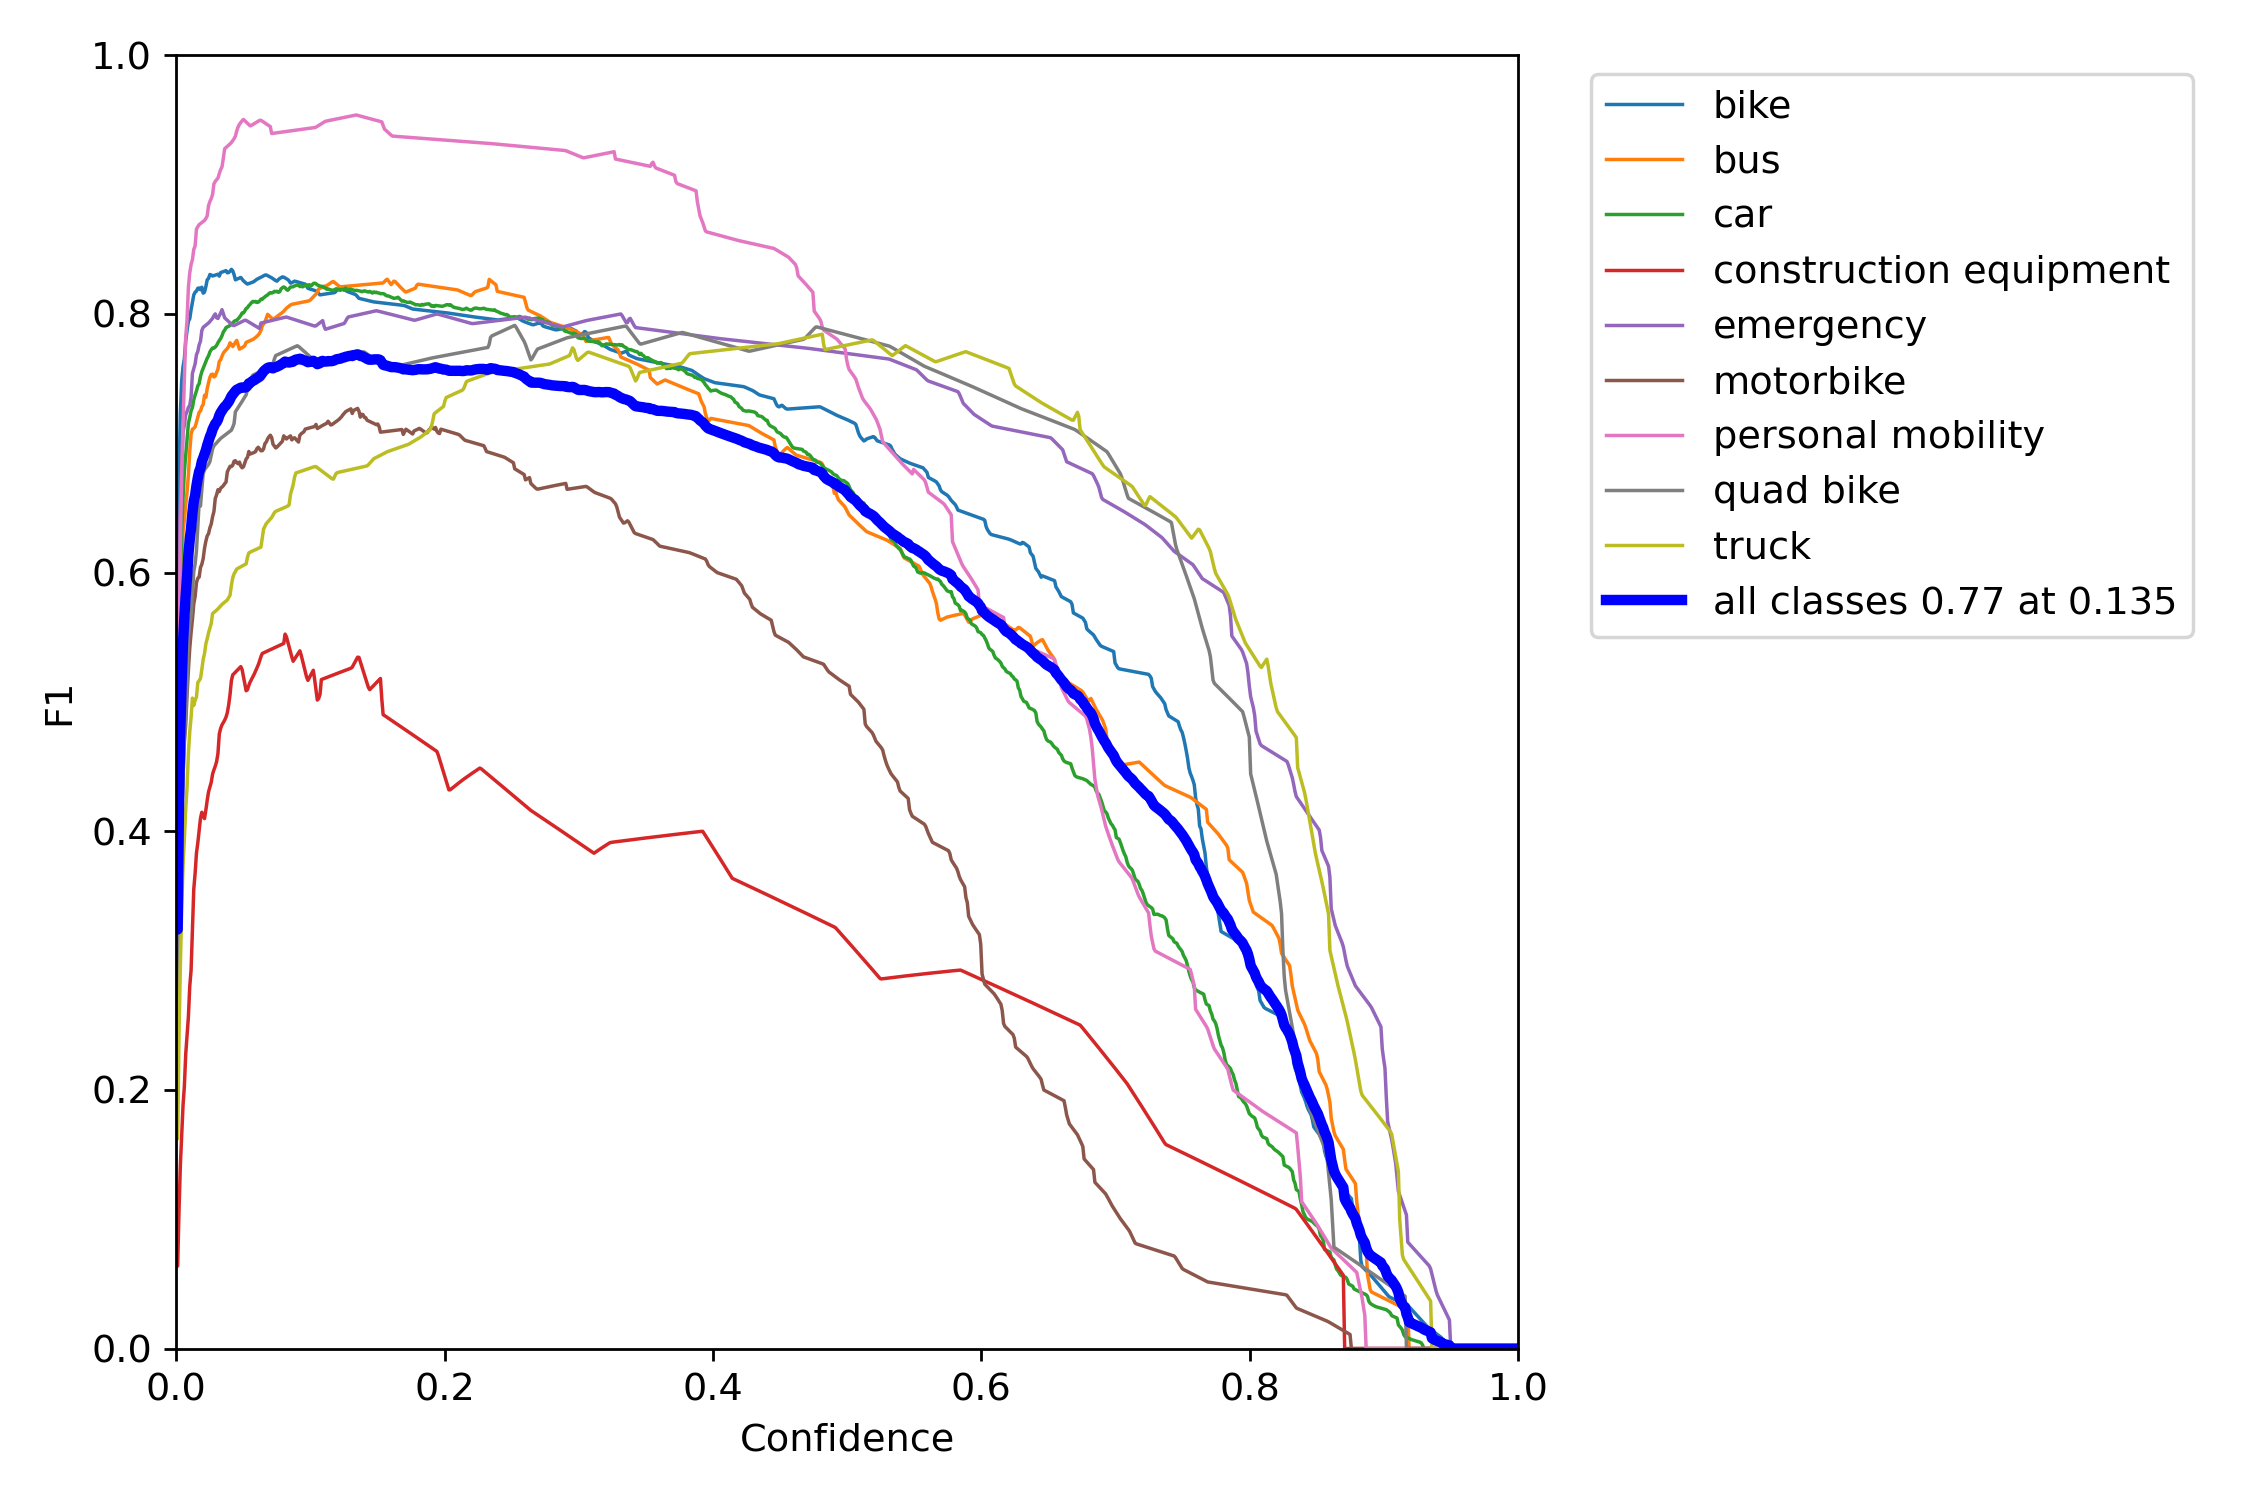
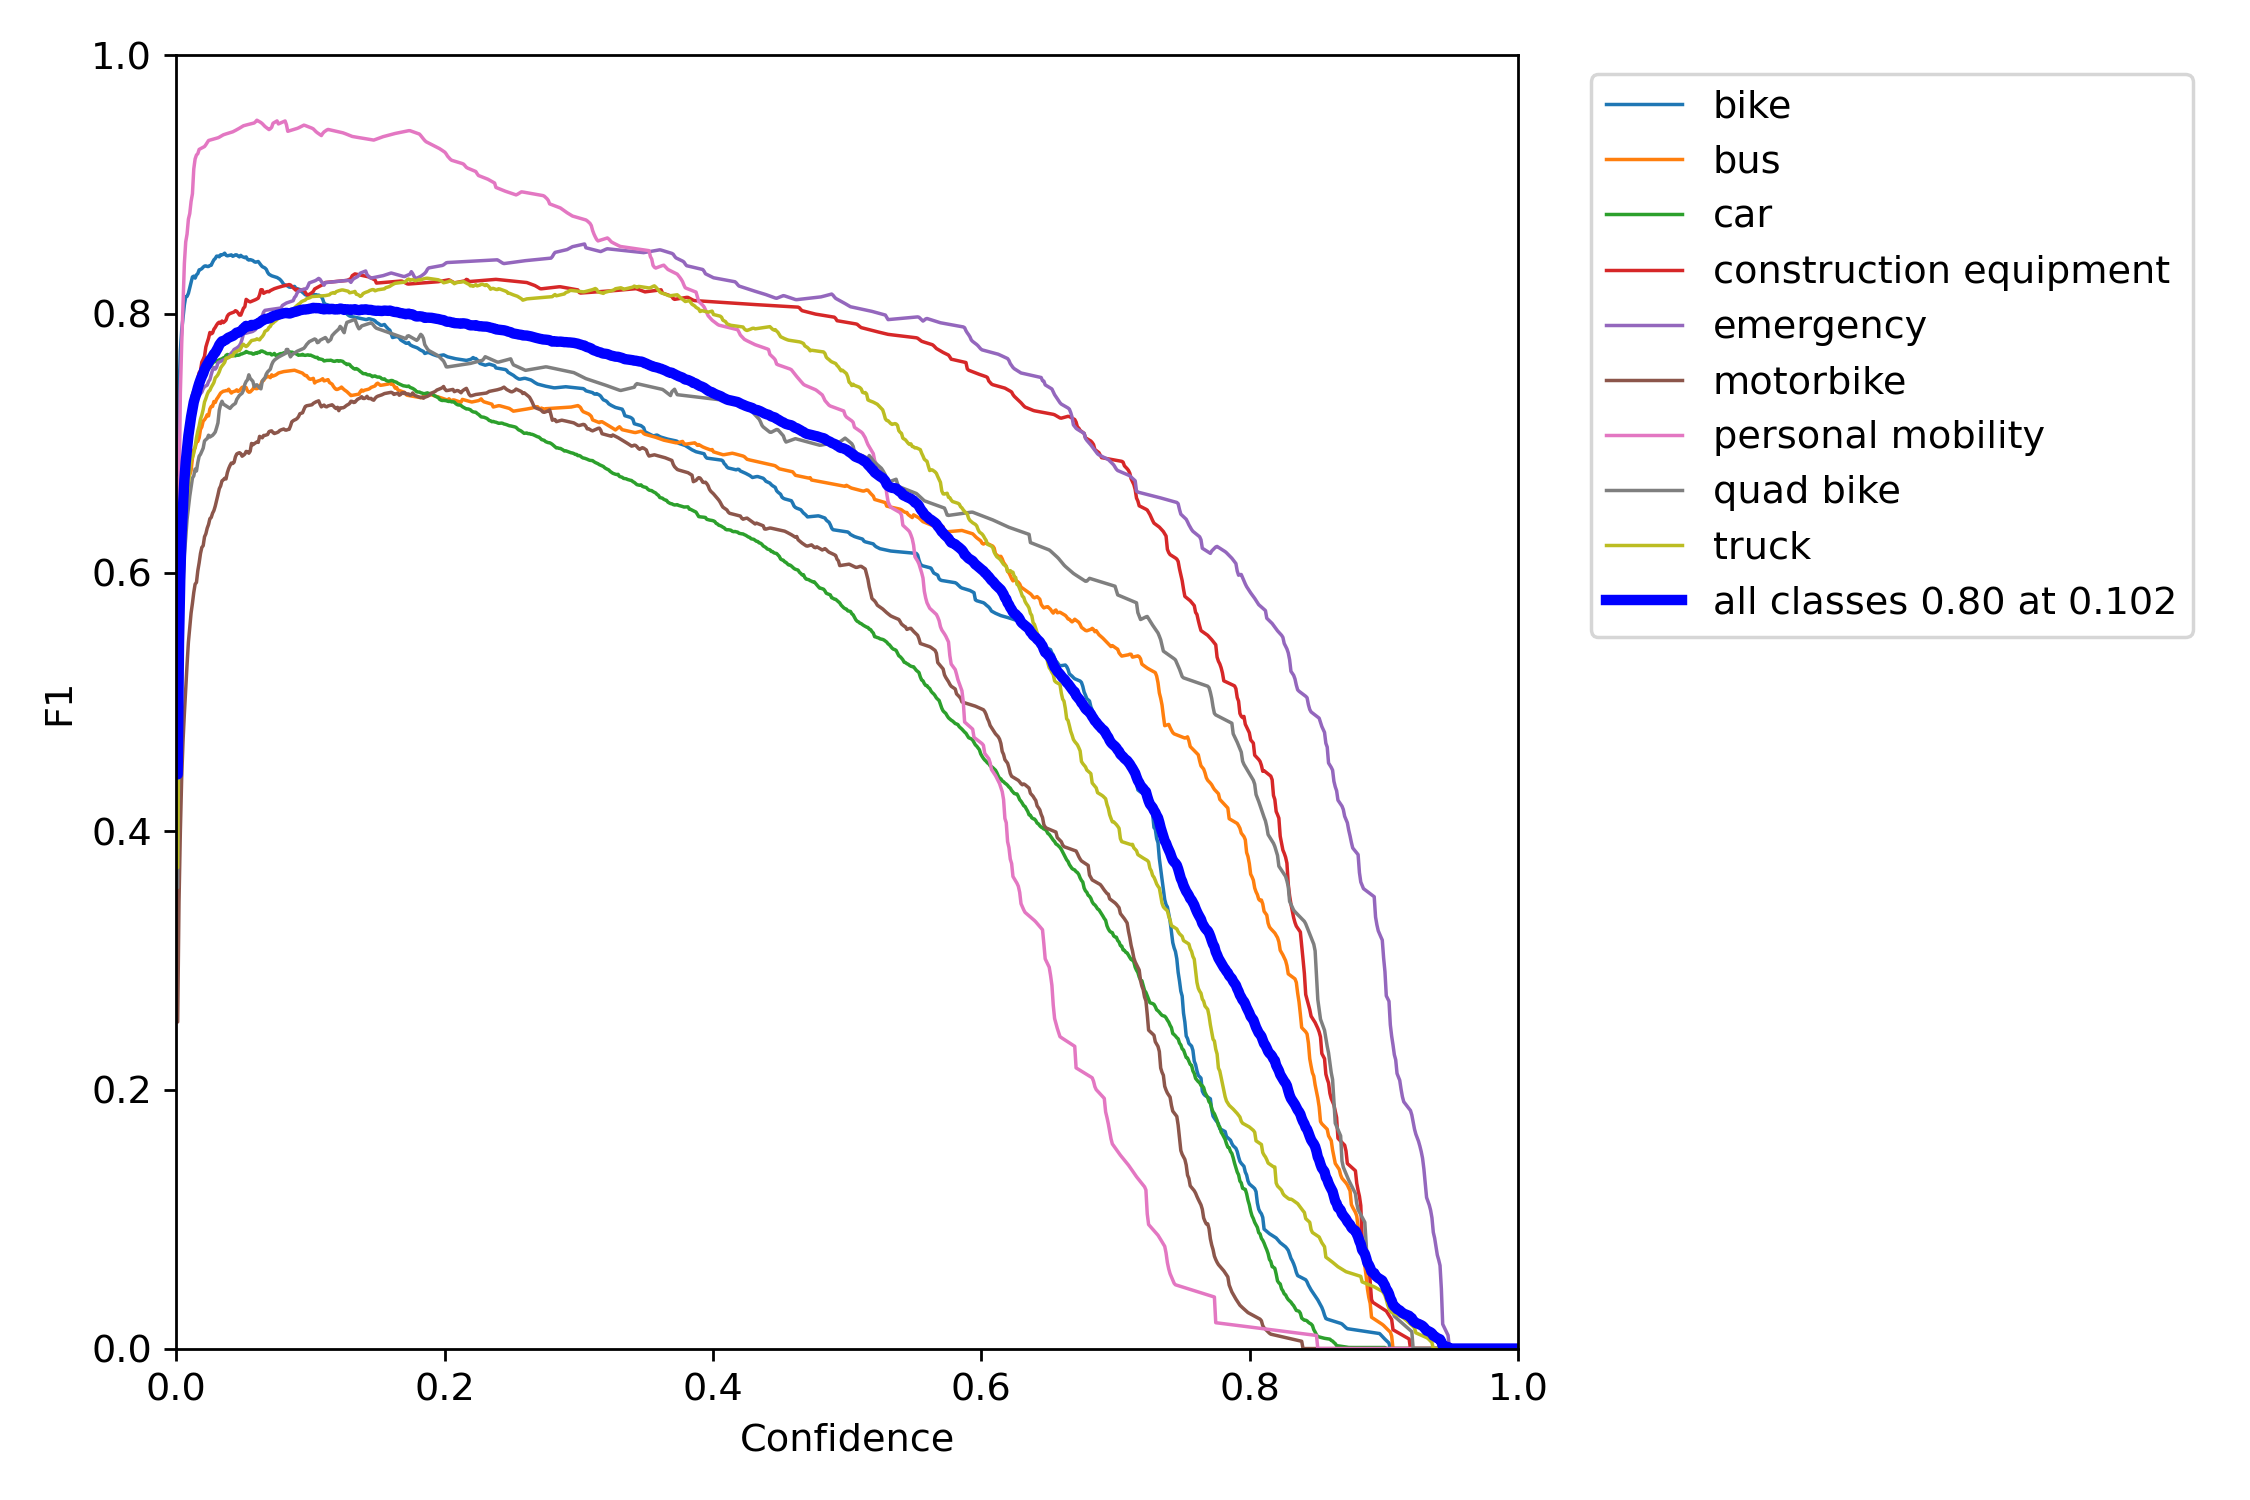
Update info about the model

diff --git a/src/detector.py b/src/detector.py
@@ -1,3 +1,5 @@
+""" 
+"""
 import io
 import random
 import logging
@@ -162,7 +164,22 @@ class VehicleDetector():
         return bboxes, class_ids, scores
 
     def _get_yolo_out(self, img):
-        return self.__forward(img)
+        '''
+        class_id x1 y1 x2 y2
+        '''
+        bboxes, class_ids, scores = self.__post_process(self.__forward(img), img)
+
+        h, w, _ = img.shape
+            
+        yolo_format = []
+        for bbox, class_id in zip(bboxes, class_ids):
+            x0, y0, x1, y1 = bbox
+            # Normalize the bounding box coordinates
+            x0, x1 = x0 / w, x1 / w
+            y0, y1 = y0 / h, y1 / h
+            yolo_format.append([class_id, x0, y0, x1, y1])
+
+        return yolo_format
 
 
     def draw_box(self, img):
@@ -211,17 +228,16 @@ class VehicleDetector():
         Returns:
             io.BytesIO: In-memory file containing the processed video.
         """
-        fps = cap.get(cv2.CAP_PROP_FPS)
+        fps = int(cap.get(cv2.CAP_PROP_FPS))
         if (fps == 0.0):
             fps = 30
 
         output_memory_file = io.BytesIO()
         # Open "in memory file" as MP4 video output
         output_f = av.open(output_memory_file, 'w', format="mp4")
-
+        print(fps)
         # Add H.264 video stream to the MP4 container, with framerate
         stream = output_f.add_stream('h264', f"{fps}")
-
         while True:
             ret, frame = cap.read()
 

diff --git a/src/main.py b/src/main.py
@@ -53,7 +53,7 @@ class Main():
 
             res = self.detector.video_run(self.input)
 
-            with open(f"results/video/v_predict_{datetime.now().strftime('%d-%m-%Y %H:%M:%S:%f')}.mp4", "wb") as file:
+            with open(f"results/video/v_predict_{datetime.now().strftime('%d-%m-%Y %H-%M-%S-%f')}.mp4", "wb") as file:
                 file.write(res.getbuffer())
         else:
             makedirs("results/images", exist_ok=True)
@@ -61,7 +61,7 @@ class Main():
             self.res = self.detector(self.input)
 
             cv2.imwrite(
-                f"results/images/i_predict_{datetime.now().strftime('%d-%m-%Y %H:%M:%S:%f')}.png", self.res)
+                f"results/images/i_predict_{datetime.now().strftime('%d-%m-%Y %H-%M-%S-%f')}.png", self.res)
 
 
 if __name__ == "__main__":

diff --git a/src/loader.py b/src/loader.py
@@ -1,3 +1,5 @@
+"""
+"""
 import argparse
 
 import cv2
@@ -82,4 +84,3 @@ class Loader:
 if __name__ == "__main__":
     loader = Loader()
     loader()
-    print(Loader.__doc__)

diff --git a/README.md b/README.md
@@ -53,9 +53,14 @@ __IMPORTANT:__ your Python version must be greater than or equal to `3.9`. Also,
 
 ![Recall](https://raw.githubusercontent.com/IlS0/Vehicle-Detection/main/images/R_curve.png)
 
-### Confusion matrix
+### Precision
 
-![Confusion matrix](https://raw.githubusercontent.com/IlS0/Vehicle-Detection/main/images/confusion_matrix.png)
+![Precision](https://raw.githubusercontent.com/IlS0/Vehicle-Detection/main/images/P_curve.png)
+
+### F1
+
+![F1](https://raw.githubusercontent.com/IlS0/Vehicle-Detection/main/images/F1_curve.png)
+
 
 ## Documentation
 
